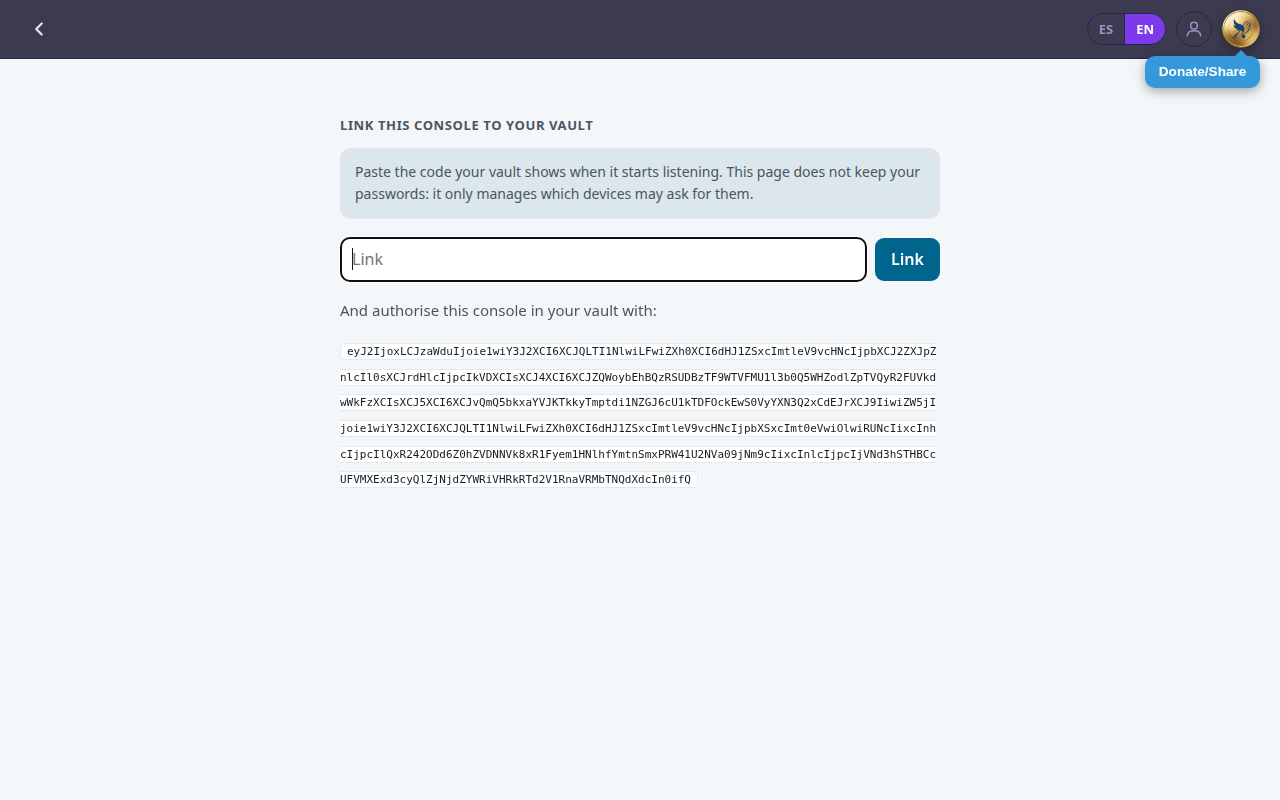
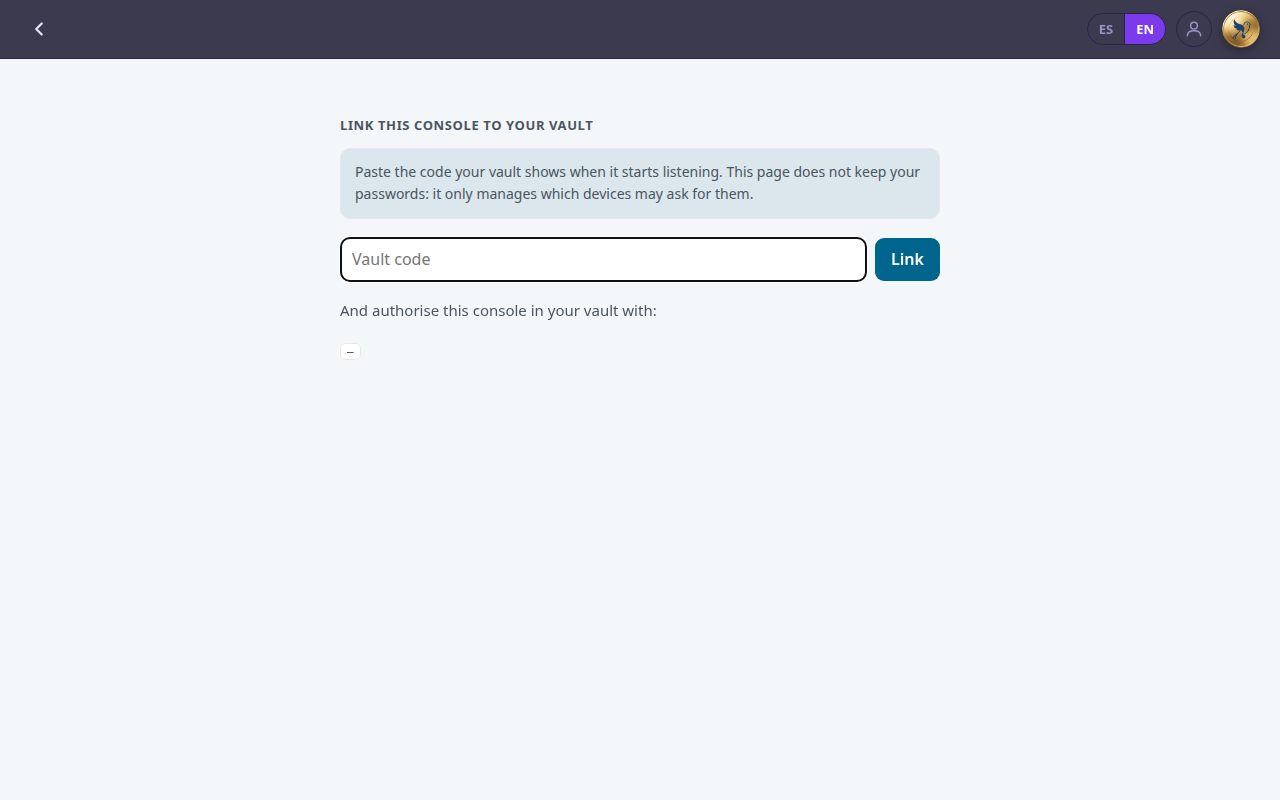
consola: si no se puede componer el código, decir por qué
Salió al recapturar: cuando la bóveda de identidad no responde a tiempo, la
consola mostraba un guion. El usuario no puede autorizarla sin ese código y
se queda mirando la pantalla sin saber qué hacer.

Changed region(s): [[0.2812, 0.4375, 0.7188, 0.625], [0.875, 0.0625, 1.0, 0.125], [0.2812, 0.3125, 0.3438, 0.3438]]

diff --git a/web/vault.js b/web/vault.js
@@ -20,6 +20,7 @@ const T = {
     linkGo: 'Enlazar',
     linkCode: 'Código de la bóveda',
     myCode: 'Y autoriza esta consola en tu bóveda con:',
+    noCode: 'No se pudo hablar con tu bóveda de identidad para componer el código. Recarga la página.',
     devices: 'Aparatos que pueden pedir credenciales',
     none: 'No hay ningún aparato autorizado.',
     remove: 'Retirar',
@@ -39,6 +40,7 @@ const T = {
     linkGo: 'Link',
     linkCode: 'Vault code',
     myCode: 'And authorise this console in your vault with:',
+    noCode: 'Could not reach your identity vault to build the code. Reload the page.',
     devices: 'Devices that may ask for credentials',
     none: 'No authorised devices.',
     remove: 'Remove',

diff --git a/web/vault.html b/web/vault.html
@@ -30,6 +30,6 @@
   <p class="loading" data-i18n="loading">Buscando tu bóveda…</p>
 </main>
 
-<script type="module" src="vault.js?v=2"></script>
+<script type="module" src="vault.js?v=3"></script>
 </body>
 </html>
